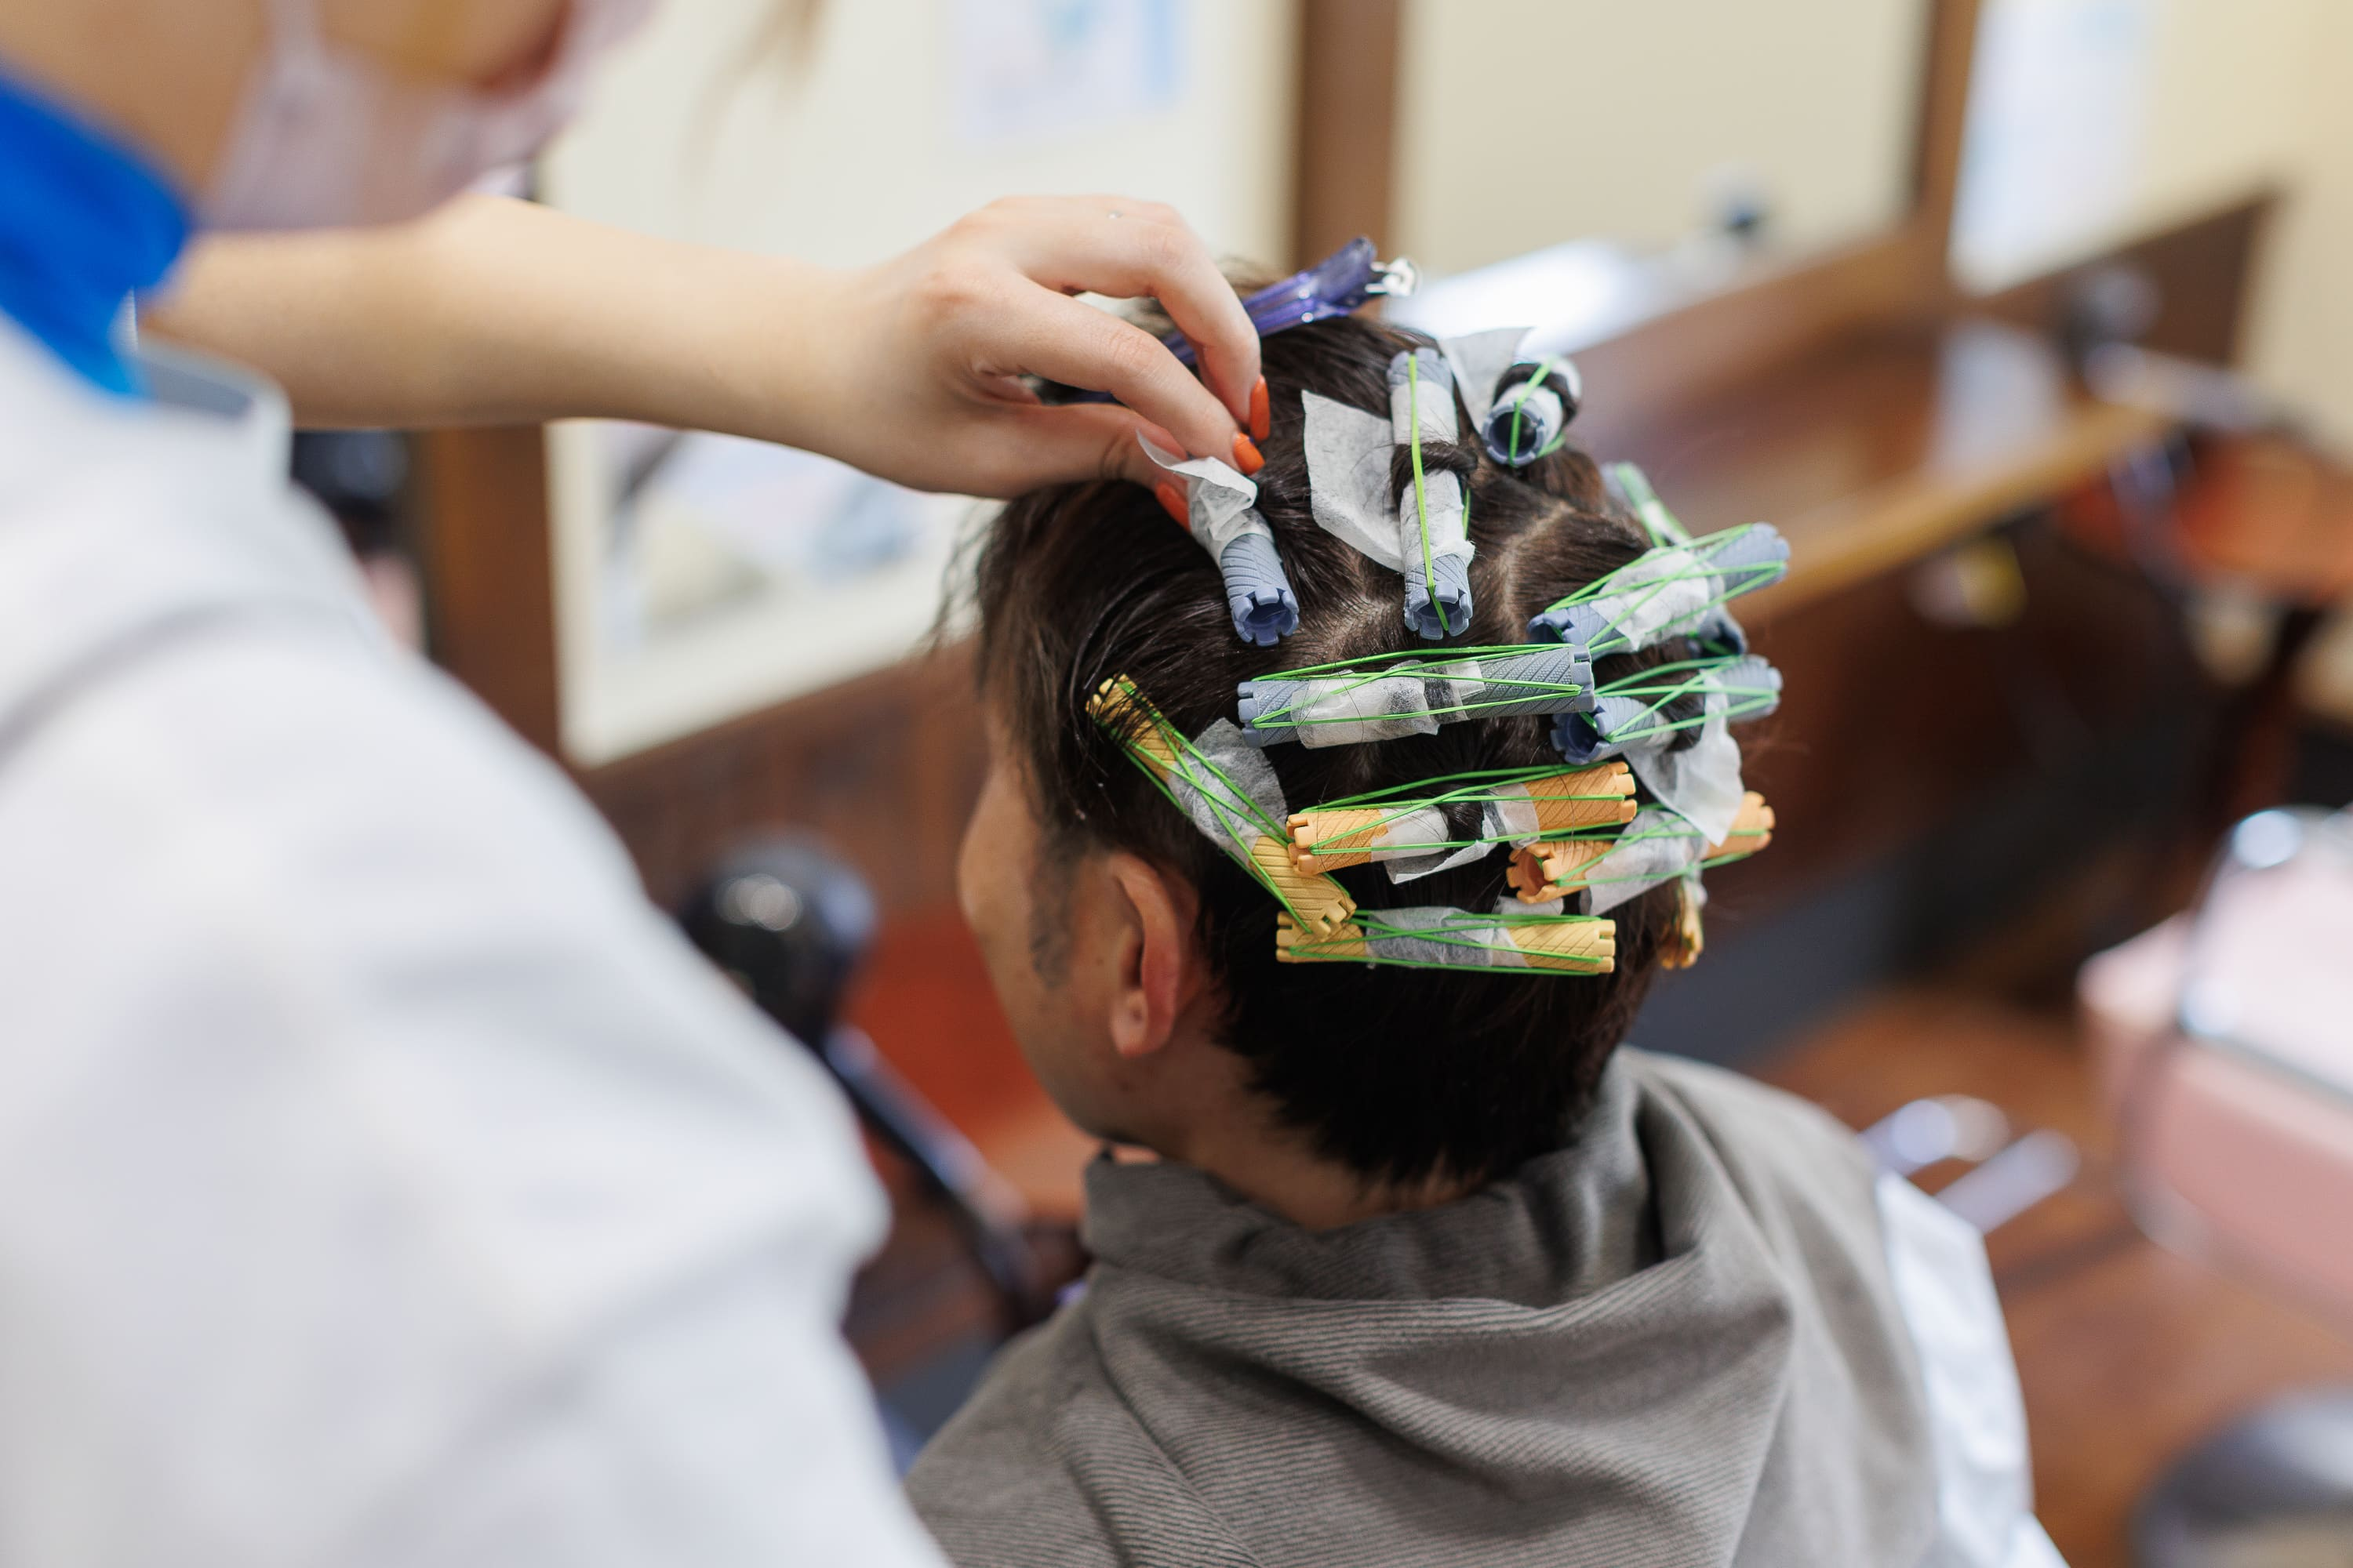
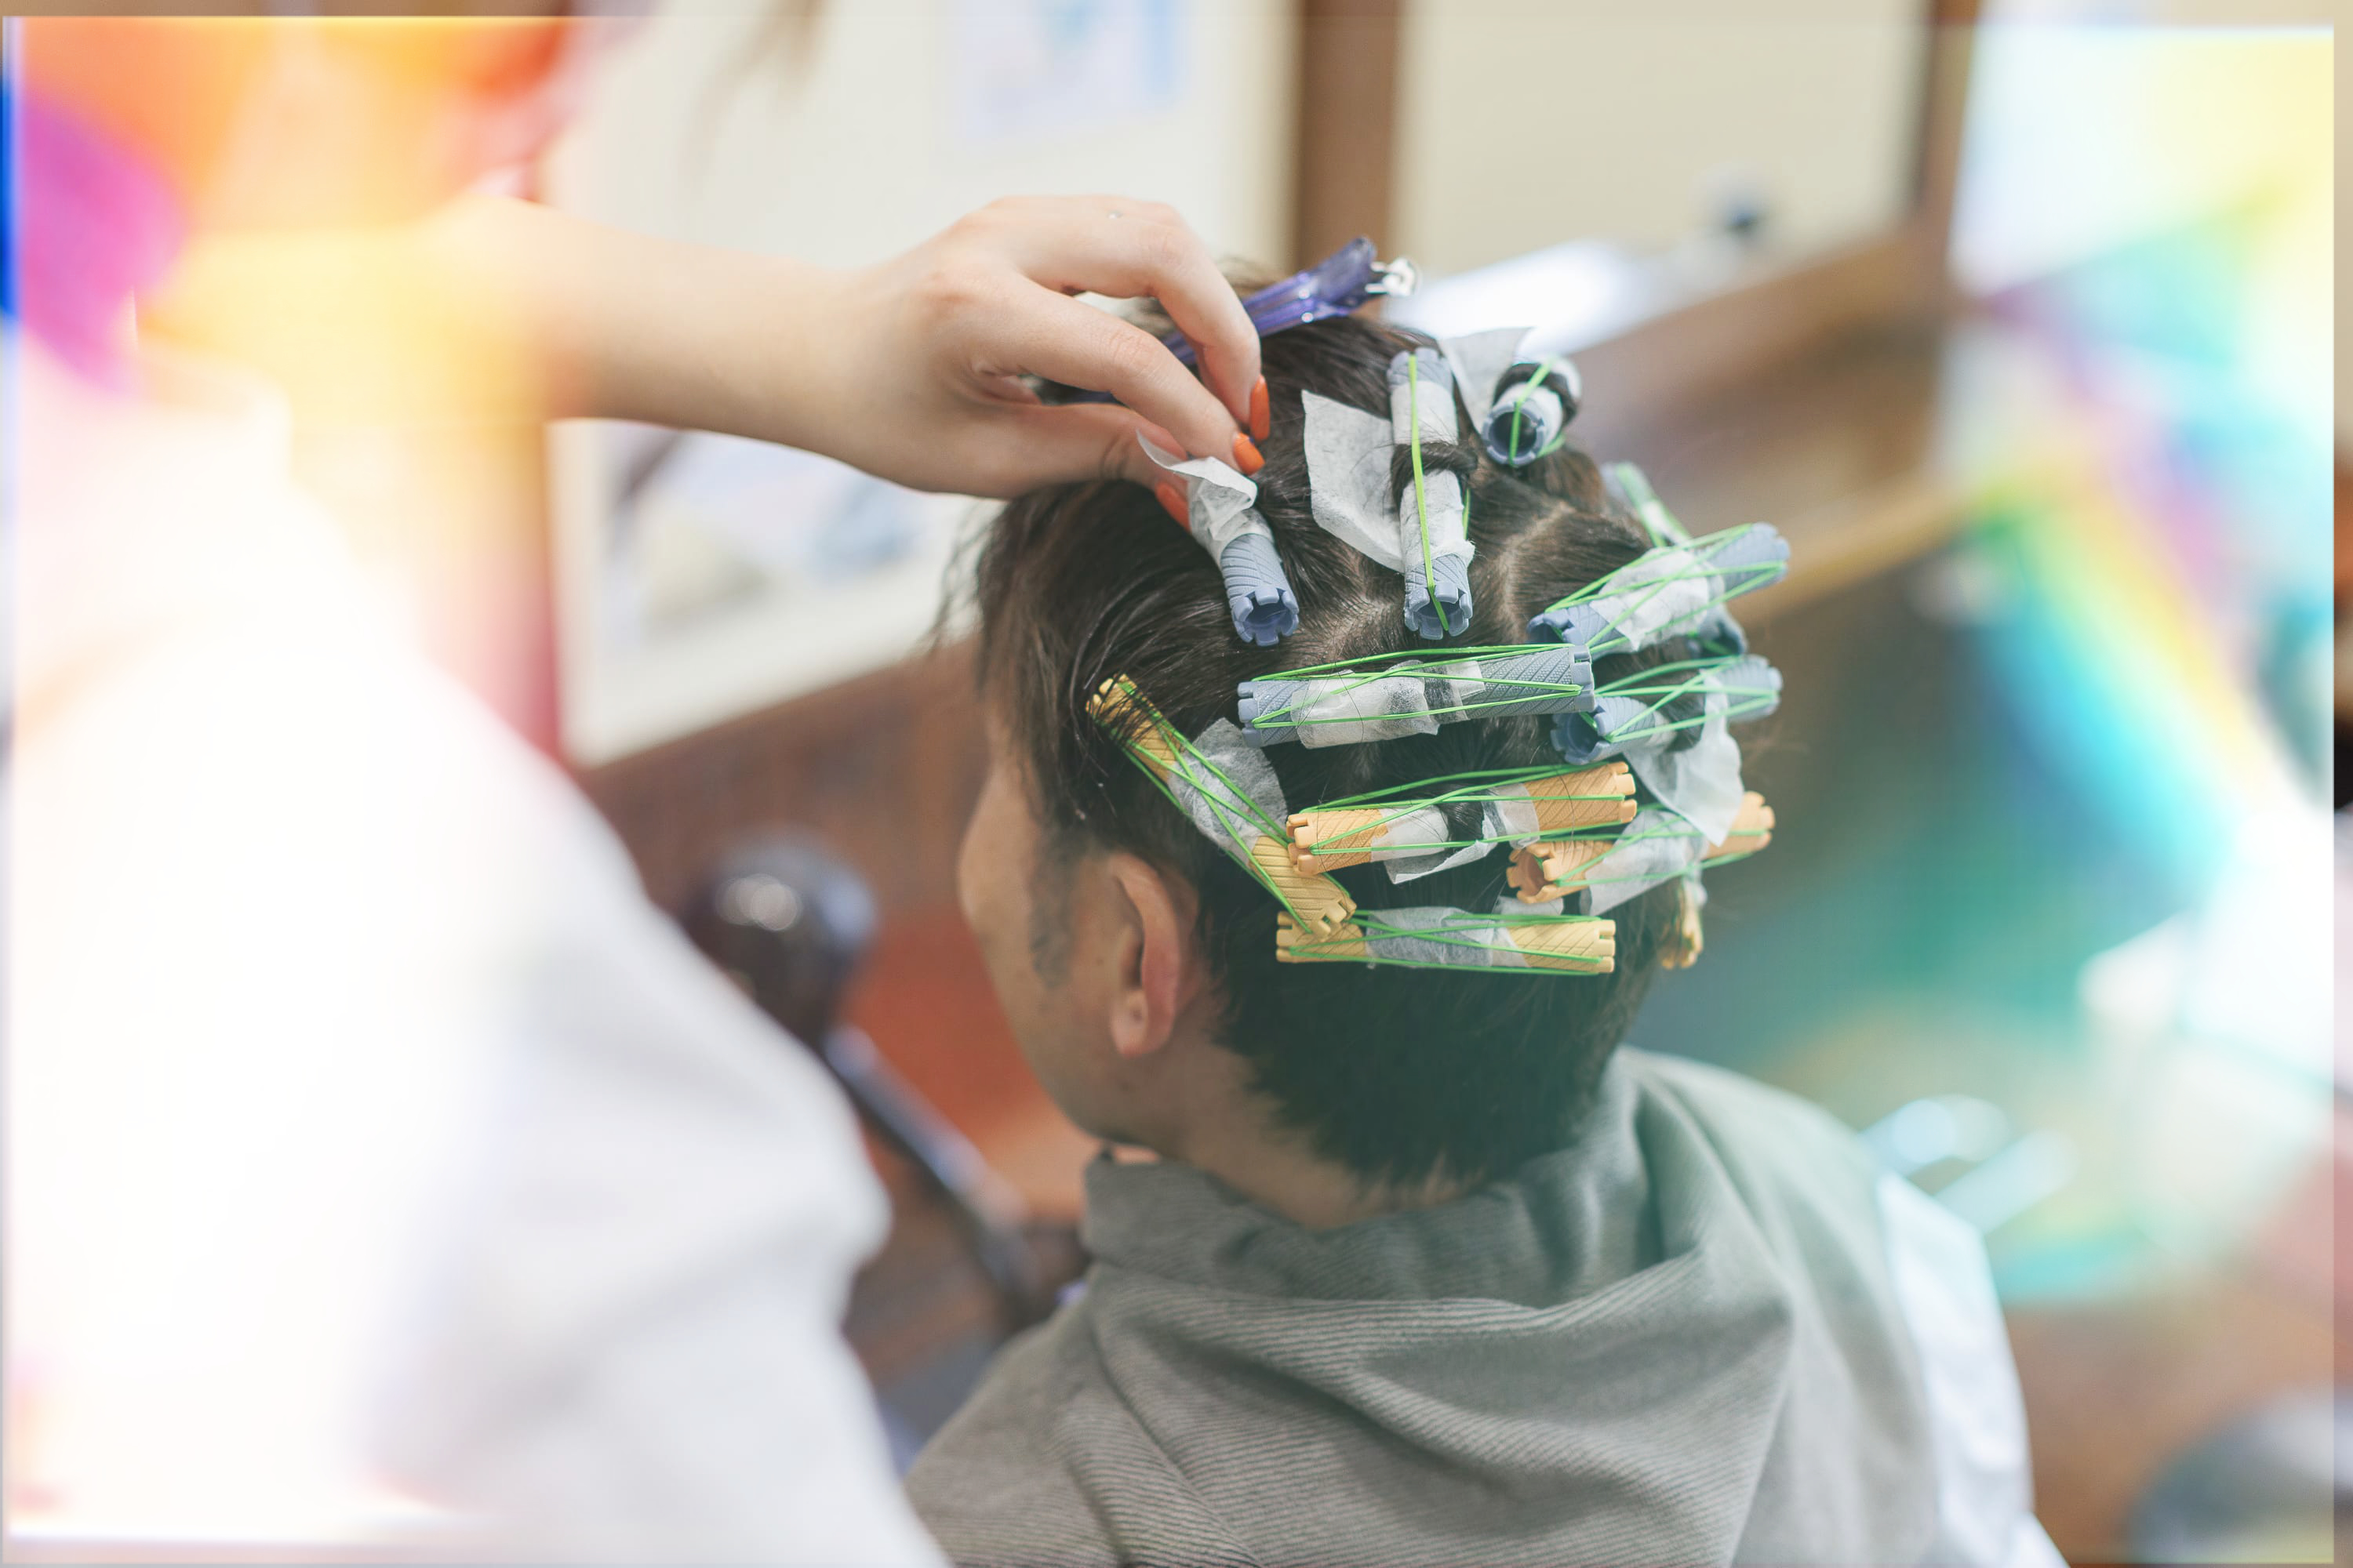
画像変更

diff --git a/index.html b/index.html
@@ -54,7 +54,7 @@
       <div class="l-inner">
         <div class="p-main-visual__wrap">
           <div class="p-main-visual__image">
-            <img src="images/top/main-visual.jpg" alt="" />
+            <img src="images/top/mv-sample.jpg" alt="" />
           </div>
           <!-- /.p-main-visual__image -->
 
